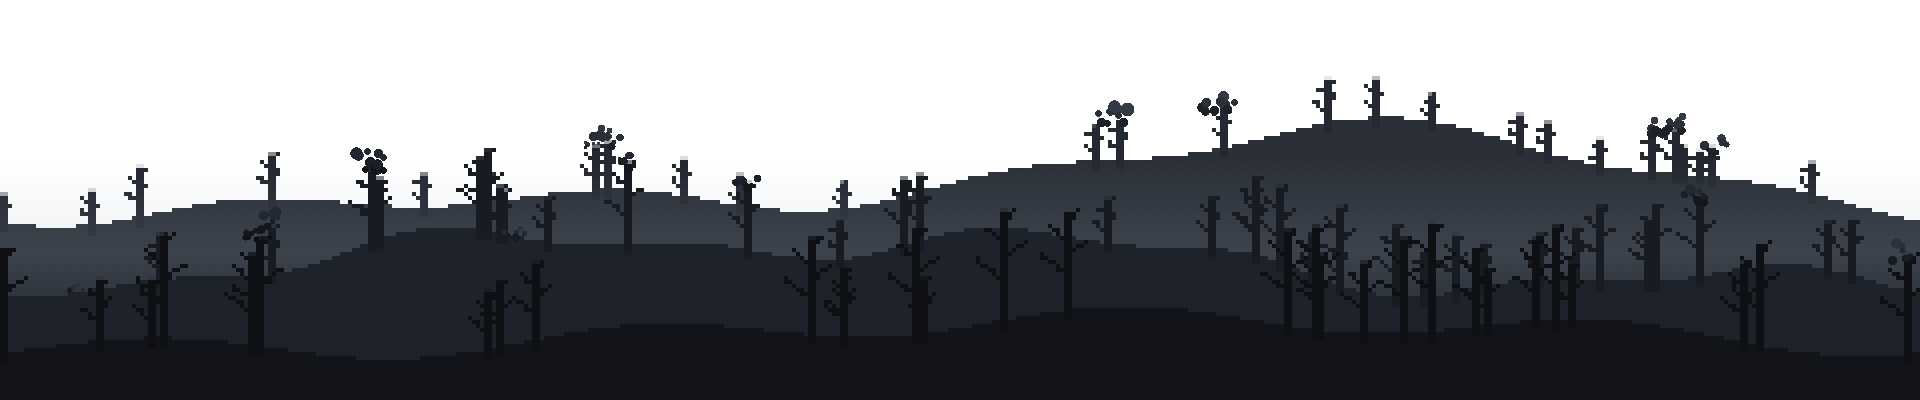
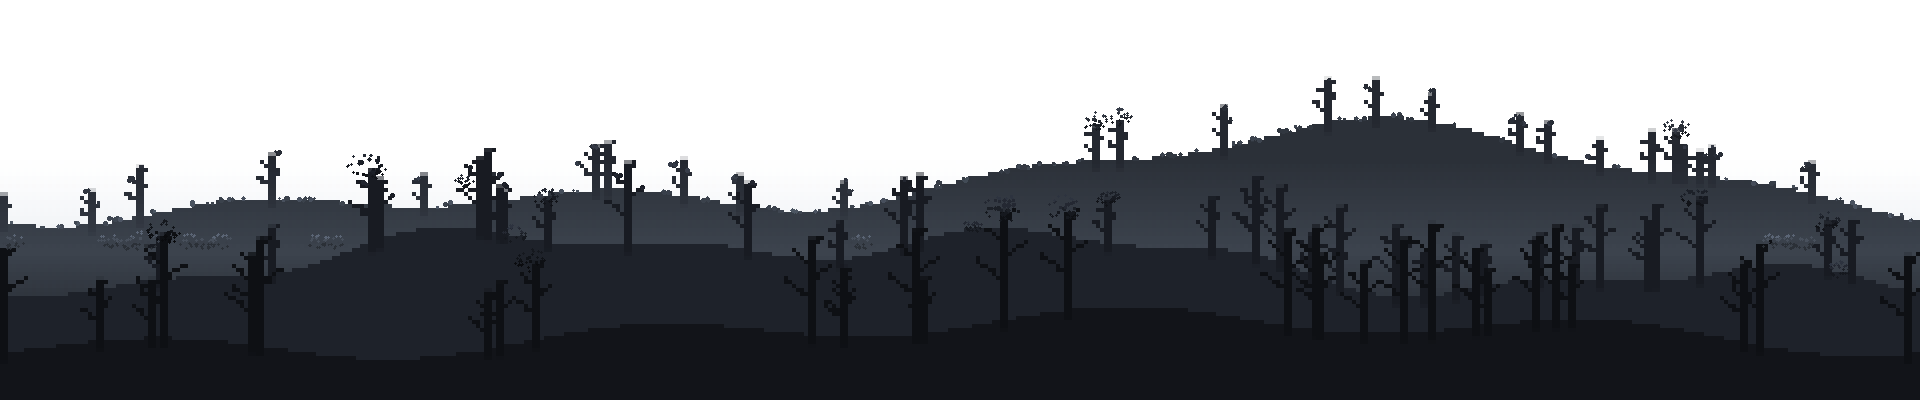
원경 잎을 훨씬 풍성하게 — 능선까지 잎으로 덮는다
앞 판은 나무마다 갓을 하나씩 얹은 것뿐이라 막대에 사탕을 꽂아 둔 것처럼
낱낱이 떨어져 보였다. 진짜 원경 숲은 **능선 자체가 잎으로 덮여** 윤곽이
뭉개져 있고, 그 위로 큰 나무 몇 그루가 삐죽 솟는다.

  ─ 능선 띠(ridge)를 새로 깐다. 열마다 맨 위 불투명 픽셀을 찾아 그 언덕
    자기 색으로 잎덩이를 흩뿌린다. 언덕이 여럿이면 각자 제 색으로 덮이므로
    앞뒤 깊이가 그대로 유지된다.
  ─ 나무를 25그루 → 53그루로 (줄기 판정 길이 15px → 10px)
  ─ 갓을 키우고, 작은 덩이를 훨씬 많이 쓴다. 큰 덩이 몇 개로 채우면
    가장자리가 매끈해져 나무가 아니라 먹구름이 된다
  ─ 명암을 두 단계에서 네 단계로. 두 단계로는 통짜 덩어리가 됐다

  섞은 판의 잎 픽셀: 1장 34,436 → 3장 16,967 → 5장 12,641 → 8장 475 →
  9장 34,436 으로 복귀.

■ 굽다가 잡은 것 둘

  ─ `not rng.random() < dens` 는 `(not rng.random()) < dens` 로 묶여 늘 참이다.
    그래서 능선 띠가 한 점도 안 그려지고 있었다.
  ─ 능선을 ridge() 안에서 그때그때 재면 **같은 버퍼를 읽으며 쓴다.** 한 열에
    잎을 얹으면 다음 열이 그 잎을 능선으로 읽고 또 그 위에 얹고, 색까지 매번
    밝게(×1.42) 떠서 밝기가 겹겹이 곱해진다 — 캔버스 위로 기어오르는 새하얀
    계단이 여러 줄 생겼다. 이제 원본에서 한 번만 재어 넘긴다(skyline).

Claude-Session: https://claude.ai/code/session_015bTXkb4q3SzK7wZ8JdbtYP

diff --git a/game/index.html b/game/index.html
@@ -4,7 +4,7 @@
 <meta charset="utf-8">
 <meta name="viewport" content="width=device-width,initial-scale=1">
 <title>Ashfall Chronicles — 별이 잠든 땅</title>
-<link rel="stylesheet" href="css/style.css?v=191">
+<link rel="stylesheet" href="css/style.css?v=192">
 </head>
 <body>
 
@@ -447,19 +447,19 @@
   </div>
 </div>
 
-<script src="js/util.js?v=191"></script>
-<script src="js/data.js?v=191"></script>
-<script src="js/world.js?v=191"></script>
-<script src="js/tileart.js?v=191"></script>
-<script src="js/itemart.js?v=191"></script>
-<script src="js/titlebg.js?v=191"></script>
+<script src="js/util.js?v=192"></script>
+<script src="js/data.js?v=192"></script>
+<script src="js/world.js?v=192"></script>
+<script src="js/tileart.js?v=192"></script>
+<script src="js/itemart.js?v=192"></script>
+<script src="js/titlebg.js?v=192"></script>
 <!-- 매니페스트는 sprites.js 보다 먼저. file:// 에서 fetch 가 막히므로 <script> 로 넣는다 -->
-<script src="assets/sprites-manifest.js?v=191"></script>
-<script src="assets/sprites.js?v=191"></script>
-<script src="js/entity.js?v=191"></script>
-<script src="js/factory.js?v=191"></script>
-<script src="js/ui.js?v=191"></script>
-<script src="js/music.js?v=191"></script>
-<script src="js/game.js?v=191"></script>
+<script src="assets/sprites-manifest.js?v=192"></script>
+<script src="assets/sprites.js?v=192"></script>
+<script src="js/entity.js?v=192"></script>
+<script src="js/factory.js?v=192"></script>
+<script src="js/ui.js?v=192"></script>
+<script src="js/music.js?v=192"></script>
+<script src="js/game.js?v=192"></script>
 </body>
 </html>

diff --git a/tools/mkforestbg.py b/tools/mkforestbg.py
@@ -63,7 +63,7 @@ def find_trees(px, W, H):
         p = px[x, y]
         return p[:3] if p[3] == 255 else None
 
-    GAP, LONG = 11, 15
+    GAP, LONG = 11, 10
     tops = {}
     for x in range(GAP, W - GAP):
         for y in range(0, H - LONG):
@@ -104,13 +104,16 @@ def canopy(im, px, cx, ty, wide, col, rng, scale, clumps, ragged):
     """나무 하나의 갓. 매끈한 타원 하나가 아니라 **작은 덩이 여럿**을 겹쳐
        가장자리를 헤지게 만든다 — 매끈하면 나무가 아니라 구름으로 보인다."""
     W, H = im.size
-    rx = (17 + wide * 1.05) * scale
-    ry = rx * 0.72
-    cy = ty - ry * 0.35            # 갓의 가운데는 꼭대기보다 조금 위
+    rx = (20 + wide * 1.15) * scale
+    ry = rx * 0.70
+    cy = ty - ry * 0.30            # 갓의 가운데는 꼭대기보다 조금 위
 
-    leaf = shade(col, 1.18)        # 빛 받는 잎
-    dark = shade(col, 0.82)        # 그늘진 안쪽
-    lite = shade(col, 1.45)        # 위쪽 한 겹
+    # 값 네 단계. 두 단계로만 그렸더니 통짜 덩어리가 되어 나무가 아니라
+    # 먹구름으로 보였다 — 잎은 안이 비어 보일 만큼 명암이 갈려야 한다.
+    dark = shade(col, 0.72)        # 갓 안쪽 그늘
+    mid = shade(col, 0.95)
+    leaf = shade(col, 1.20)        # 빛 받는 면
+    lite = shade(col, 1.52)        # 꼭대기 한 겹
 
     def blob(bx, by, r, c):
         rr = int(r) + 1
@@ -122,16 +125,20 @@ def canopy(im, px, cx, ty, wide, col, rng, scale, clumps, ragged):
                 if 0 <= x < W and 0 <= y < H:
                     px[x, y] = (c[0], c[1], c[2], 255)
 
-    n = max(3, int(clumps * (0.6 + rx / 26)))
+    # 작은 덩이를 아주 많이. 큰 덩이 몇 개로 채우면 가장자리가 매끈해져
+    # 구름이 된다 — 잎은 낱개가 보여야 한다.
+    n = max(8, int(clumps * (1.4 + rx / 9)))
     for i in range(n):
         a = rng.uniform(0, math.tau)
-        d = rng.uniform(0, 1) ** 0.55        # 가운데가 빽빽하고 밖이 성글다
+        d = rng.uniform(0, 1) ** 0.45        # 가운데가 빽빽하고 밖이 성글다
         bx = cx + math.cos(a) * d * rx
         by = cy + math.sin(a) * d * ry
-        r = rng.uniform(0.22, 0.42) * rx * (1 - ragged * rng.uniform(0, 0.5))
-        # 아래쪽 덩이는 그늘, 위쪽은 빛
-        c = dark if by > cy + ry * 0.15 else (lite if by < cy - ry * 0.35 else leaf)
-        blob(bx, by, r, c)
+        # 바깥으로 갈수록 잘게 — 가장자리가 헤진다
+        r = (0.055 + 0.11 * (1 - d)) * rx * (1 - ragged * rng.uniform(0, 0.6))
+        rel = (by - cy) / max(ry, 1)
+        c = (dark if rel > 0.25 else mid if rel > -0.05
+             else lite if rel < -0.55 else leaf)
+        blob(bx, by, max(1.2, r), c)
 
     # 갓이 줄기 위쪽을 덮는다 — 살아 있는 나무는 윗동이 안 보인다
     if scale > 0.7:
@@ -140,11 +147,64 @@ def canopy(im, px, cx, ty, wide, col, rng, scale, clumps, ragged):
             blob(cx + rng.uniform(-1.5, 1.5), cy + ry * 0.5 + k, max(1.5, r), dark)
 
 
+def skyline(px, W, H):
+    """열마다 (맨 위 불투명 픽셀 y, 그 아래 3px 의 색). **원본에서 한 번만** 잰다.
+
+    ridge() 안에서 그때그때 재면 안 된다 — 같은 버퍼를 읽으면서 쓰기 때문에,
+    한 열에 잎을 얹으면 다음 열이 그 잎을 능선으로 읽고 또 그 위에 얹는다.
+    색까지 매번 밝게(×1.42) 뜨므로 밝기가 겹겹이 곱해져, 캔버스 위로 기어오르는
+    **새하얀 계단**이 여러 줄 생겼다. 처음 구웠을 때 실제로 그랬다."""
+    out = []
+    for x in range(W):
+        ty, col = None, None
+        for y in range(H):
+            if px[x, y][3] == 255:
+                ty = y
+                c = px[x, min(H - 1, y + 3)]
+                col = c[:3] if c[3] == 255 else px[x, y][:3]
+                break
+        out.append((ty, col))
+    return out
+
+
+def ridge(im, px, sky, rng, dens, size):
+    """능선을 따라 깔리는 잎 띠.
+
+    나무마다 갓을 하나씩 얹는 것만으로는 숲이 안 된다 — 막대에 사탕을 꽂아 둔
+    것처럼 낱낱이 떨어져 보인다. 진짜 원경 숲은 **능선 자체가 잎으로 덮여**
+    윤곽이 뭉개져 있고, 그 위로 큰 나무 몇 그루만 삐죽 솟는다.
+
+    그래서 열마다 맨 위 불투명 픽셀을 찾아 그 자리에 그 언덕 **자기 색**으로
+    잎덩이를 흩뿌린다. 언덕이 여럿이면 각자 제 색으로 덮이므로 앞뒤 깊이가
+    그대로 유지된다."""
+    W, H = im.size
+    for x in range(0, W, 2):
+        ty, col = sky[x]
+        # 괄호가 필요하다. not rng.random() < dens 는 (not rng.random()) < dens 로
+        # 묶여 늘 참이 되고, 그러면 이 띠가 한 점도 안 그려진다
+        if ty is None or ty < 2 or rng.random() >= dens:
+            continue
+        leaf, lite = shade(col, 1.16), shade(col, 1.42)
+        for _ in range(2):
+            r = rng.uniform(2.5, 5.5) * size
+            bx = x + rng.uniform(-3, 3)
+            by = ty - rng.uniform(-1, 4) * size
+            c = lite if rng.random() < 0.3 else leaf
+            rr = int(r) + 1
+            for dy in range(-rr, rr + 1):
+                for dx in range(-rr, rr + 1):
+                    if dx * dx + dy * dy > r * r:
+                        continue
+                    ix, iy = int(bx + dx), int(by + dy)
+                    if 0 <= ix < W and 0 <= iy < H:
+                        px[ix, iy] = (c[0], c[1], c[2], 255)
+
+
 STAGES = [
-    # 이름,        갓 크기, 덩이 수, 헤짐, 잎이 남은 나무 비율
-    ('lush', 1.00, 26, 0.15, 1.00),
-    ('mid', 0.74, 15, 0.40, 0.92),
-    ('thin', 0.46, 8, 0.65, 0.62),
+    # 이름,        갓 크기, 덩이 수, 헤짐, 남은 나무, 능선 띠 밀도, 띠 크기
+    ('lush', 1.00, 34, 0.15, 1.00, 0.92, 1.00),
+    ('mid', 0.72, 18, 0.40, 0.88, 0.48, 0.72),
+    ('thin', 0.44, 9, 0.65, 0.55, 0.14, 0.50),
 ]
 
 
@@ -152,11 +212,14 @@ def main():
     src = Image.open(SRC).convert('RGBA')
     W, H = src.size
     trees = find_trees(src.load(), W, H)
+    sky = skyline(src.load(), W, H)          # 원본에서 한 번만 — ridge() 설명 참고
     print('원본에서 찾은 나무 %d그루' % len(trees))
-    for name, scale, clumps, ragged, keep in STAGES:
+    for name, scale, clumps, ragged, keep, rdens, rsize in STAGES:
         im = src.copy()
         px = im.load()
-        rng = random.Random(20260910)      # 세 장의 잎이 같은 자리에서 빠지도록 고정
+        # 능선 띠를 먼저 깔고 그 위에 갓을 얹는다 — 큰 나무가 띠 위로 솟아야 한다.
+        # 씨앗을 고정해 세 장의 잎이 같은 자리에서 빠지게 한다(옮겨 다니면 안 된다)
+        ridge(im, px, sky, random.Random(20260910), rdens, rsize)
         for i, (cx, ty, wide, col) in enumerate(trees):
             # 어느 나무가 먼저 잎을 잃는지는 나무마다 정해져 있다 —
             # 단계마다 다른 나무가 벗겨지면 잎이 옮겨 다니는 것처럼 보인다
